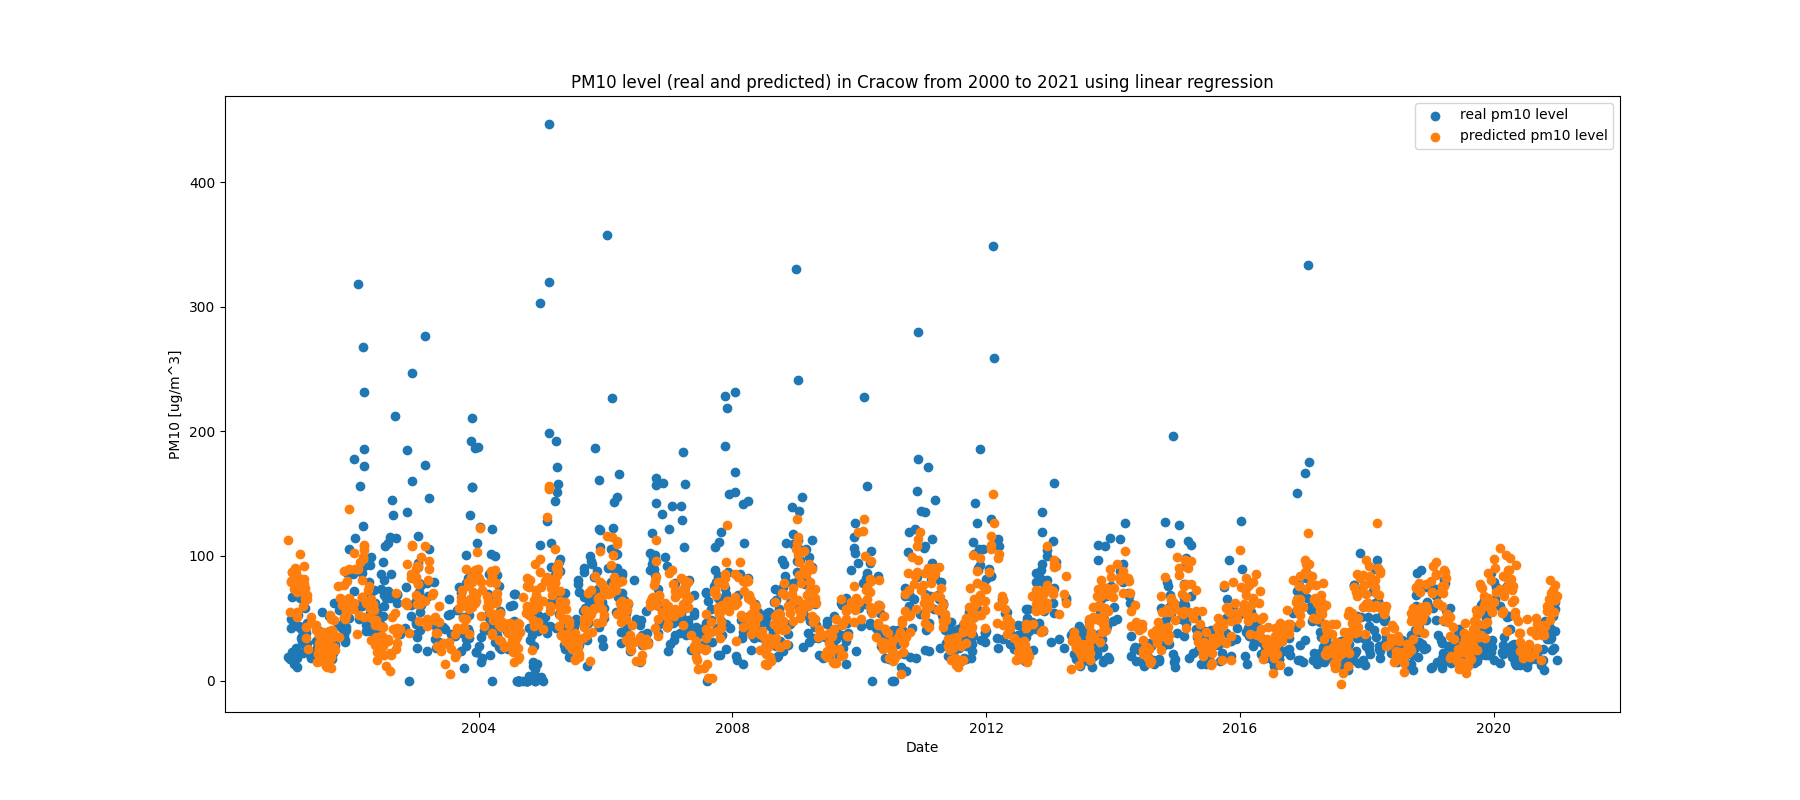
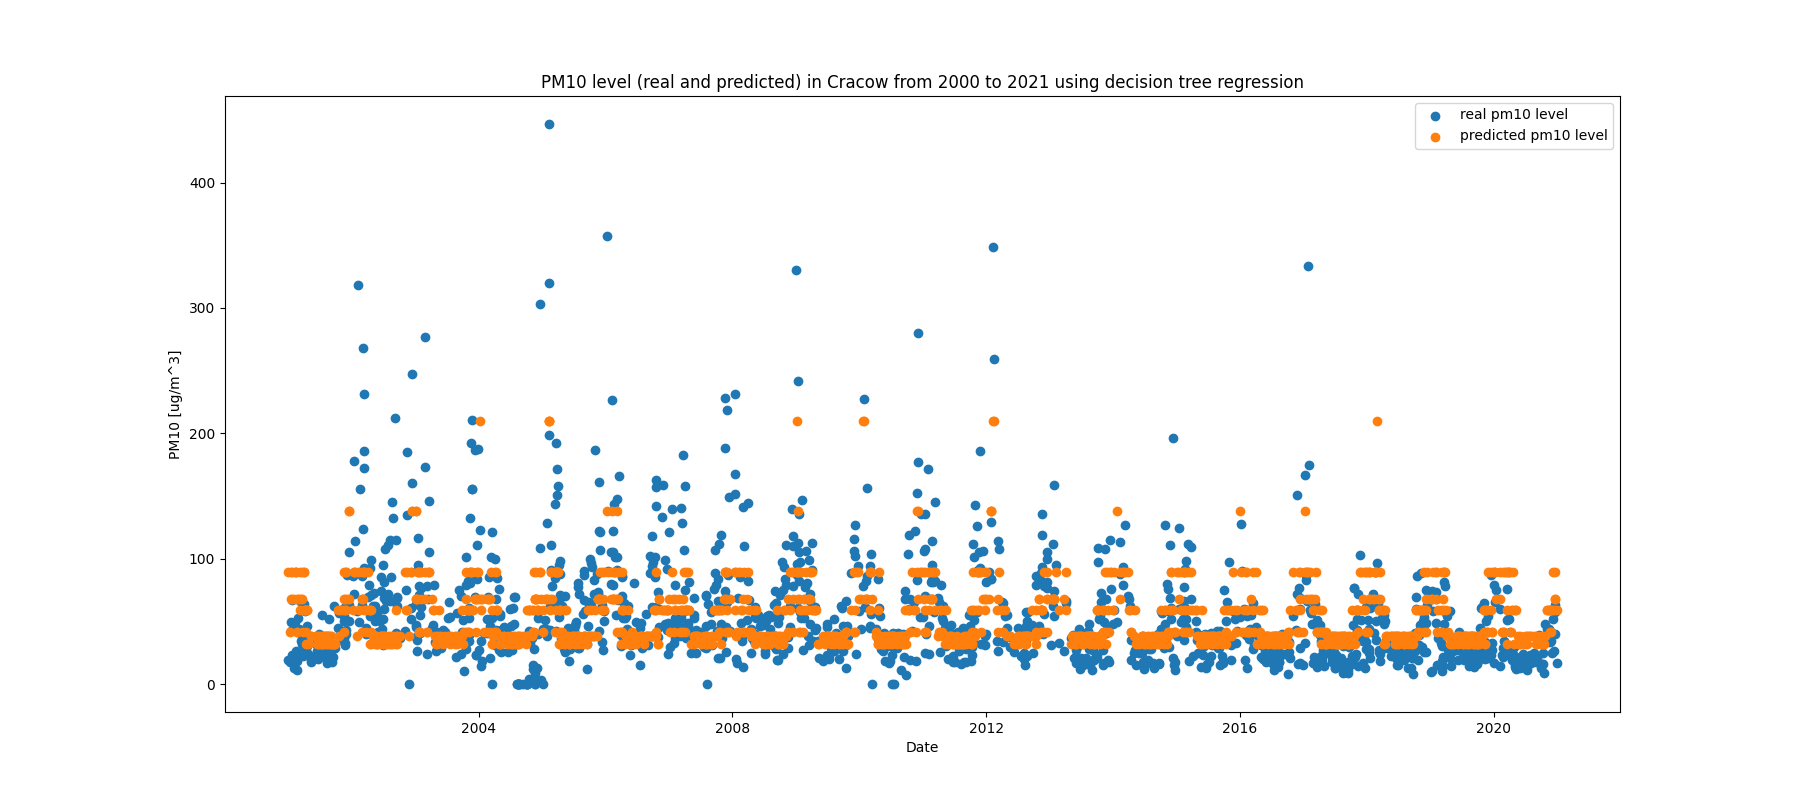
Finish linear regression doc

diff --git a/linear_and_tree_regression.tex b/linear_and_tree_regression.tex
@@ -4,19 +4,20 @@
 \usepackage{graphicx}
 \usepackage{placeins}
 \usepackage{siunitx}
+\usepackage{svg}
 \sisetup{math-micro=\text{µ},text-micro=µ}
 \graphicspath{ {./img/} }
 
 \title{Regresja liniowa i drzewa decyzyjne}
 \author{Piotr Kumala}
-\date{06.06.2022 r.}
+\date{09.06.2022 r.}
 
 \begin{document}
 	
 	\maketitle
 	
 	\section{Wstęp}
-	W tym dokumencie przedstawione zostanie zastosowanie klasycznych metod predykcji szeregów czasowych, ich wyniki oraz wnioski z nich płynące. Uzyskane wyniki zostaną wykorzystane jako wartości referencyjne przy analizie skuteczności zastosowań rekurencyjnych sieci neuronowych do tego samego problemu. W podsumowaniu przedstawiony zostanie również dalszy kierunek prowadzonych prac oraz ostateczny cel tychże badań. 
+	W tym dokumencie przedstawione zostanie zastosowanie klasycznych metod predykcji szeregów czasowych, otrzymane wyniki oraz wnioski z nich płynące. Uzyskane wyniki zostaną wykorzystane jako wartości referencyjne przy analizie skuteczności zastosowań rekurencyjnych sieci neuronowych do tego samego problemu. W podsumowaniu przedstawiony zostanie również dalszy kierunek prowadzonych prac oraz ostateczny cel tychże badań. 
 	
 	\section{Wybór danych do dalszej analizy}
 	W trakcie przeprowadzania regresji liniowej zauważono, że przygotowany wcześniej zbiór danych o wypadkach rowerowych w Wielkiej Brytanii niestety nie jest odpowiedni do przeprowadzania na nim predykcji. Każdy wypadek posiada informacje o warunkach pogodowych, oświetleniu, porze dnia i rodzaju drogi. Nie można jednak na podstawie żadnej z tych charakterystyk prowadzić wnioskowania o ilości wypadków danego dnia. Nie został przygotowany szereg czasowy opisujący te cechy, a stworzenie go jest bardzo skomplikowane o ile w ogóle wykonalne. 
@@ -24,16 +25,35 @@
 	
 	
 	\section{Regresja liniowa}
-	Przeprowadzona została regresja liniowa gdzie na podstawie minimalnej temperatury gruntu, dziennej sumy opadów oraz maksymalnej, minimalnej i średniej dziennej temperatury estymowana była średni dzienny poziom zanieczyszczenia pyłem PM10. 
+	Przeprowadzona została regresja liniowa gdzie na podstawie minimalnej temperatury gruntu, dziennej sumy opadów oraz maksymalnej, minimalnej i średniej dziennej temperatury estymowana był średni dzienny poziom zanieczyszczenia pyłem PM10. 
 	
-	Dane zostały podzielone na zbiory trenujący i testujący, a następnie przeprowadzona została najprostsza regresja liniowa. W jej wyniku otrzymaliśmy błąd średniokwadratowy równy 1386.2897378586617 $\frac{\si{\micro\gram}}{\si\meter^3}$ oraz wynik testu $R^2$ równy 0.323. Sporządzony został również wykres przewidywanego oraz rzeczywistego poziomu zanieczyszczenia pyłem PM10:
+	Dane zostały podzielone na zbiory trenujący i testujący, a następnie przeprowadzona została najprostsza regresja liniowa. W jej wyniku otrzymaliśmy błąd średniokwadratowy równy 1386.290 [$\frac{\si{\micro\gram}}{\si\meter^3}$] oraz wynik testu $R^2$ równy 0.323. Sporządzony został również wykres przewidywanego oraz rzeczywistego poziomu zanieczyszczenia pyłem PM10:
 	\begin{figure}[!ht]
 		\centering
 		\makebox[0pt]{\includegraphics[scale=0.35]{linear_regression}}
 		\caption{Wyniki regresji liniowej}
 	\end{figure}
 	\FloatBarrier
-	\section{Drzewo decyzyjne}
-	\section{Wnioski}
 	
+	\section{Drzewo decyzyjne}
+	Przeprowadzona została również regresja z wykorzystaniem drzewa decyzyjnego na podstawie tych samych cech co w poprzedniej metodzie. 
+	
+	W trakcie przeprowadzania regresji zauważono tendencję drzewa decyzyjnego do zbytniego dopasowywania(overfitting) do danych trenujących sprawiającą, że wynik $R^2$ był ujemny. 
+	Aby zaradzić temu problemowi została zmniejszona maksymalna głębokość drzewa decyzyjnego, po serii prób za najlepszą wartość maksymalnej głębokości uznano 3. Przy takiej konfiguracji drzewa decyzyjnego otrzymany został wynik $R^2$ równy 0.311 oraz błąd średniokwadratowy równy 1409.991 [$\frac{\si{\micro\gram}}{\si\meter^3}$].
+	\begin{figure}[!ht]
+		\centering
+		\makebox[0pt]{\includegraphics[scale=0.35]{decision_tree}}
+		\caption{Wyniki regresji z wykorzystaniem drzewa decyzyjnego}
+	\end{figure}
+	\FloatBarrier
+	Stworzona została również wizualizacja drzewa decyzyjnego.
+	\begin{figure}[!ht]
+		\centering
+		\makebox[0pt]{\includegraphics[scale=0.25]{tree}}
+		\caption{Wizualizacja drzewa decyzyjnego}
+	\end{figure}
+	\FloatBarrier
+	
+	\section{Wnioski}
+	Na podstawie przeprowadzonej regresji wydaje się, że przygotowane dane są odpowiednie do dalszej analizy z wykorzystaniem rekurencyjnych sieci neuronowych. Podczas dalszych badań będzie trzeba zwracać uwagę na problem zbytniego dopasowywania, który uwydatnił się przy regresji z wykorzystaniem drzewa decyzyjnego. Planowane jest przeprowadzenie predykcji z wykorzystaniem podstawowej rekurencyjnej sieci neuronowej, sieci LSTM oraz GRU. Końcowym celem badań jest ewaluacja przydatności rekurencyjnych sieci neuronowych do predykcji szeregów czasowych poprzez porównanie wyników wszystkich używanych metod. Interesujące może się również okazać porównanie wyników różnych sieci neuronowych, na przykład sieci LSTM i GRU. Sieć GRU jest często przedstawiana jako mniej skomplikowana alternatywa uzyskująca porównywalne wyniki. Określenie czy w naszym konkretnym zastosowaniu zaobserwujemy taką charakterystykę może być badawczo ciekawe.
 \end{document}
